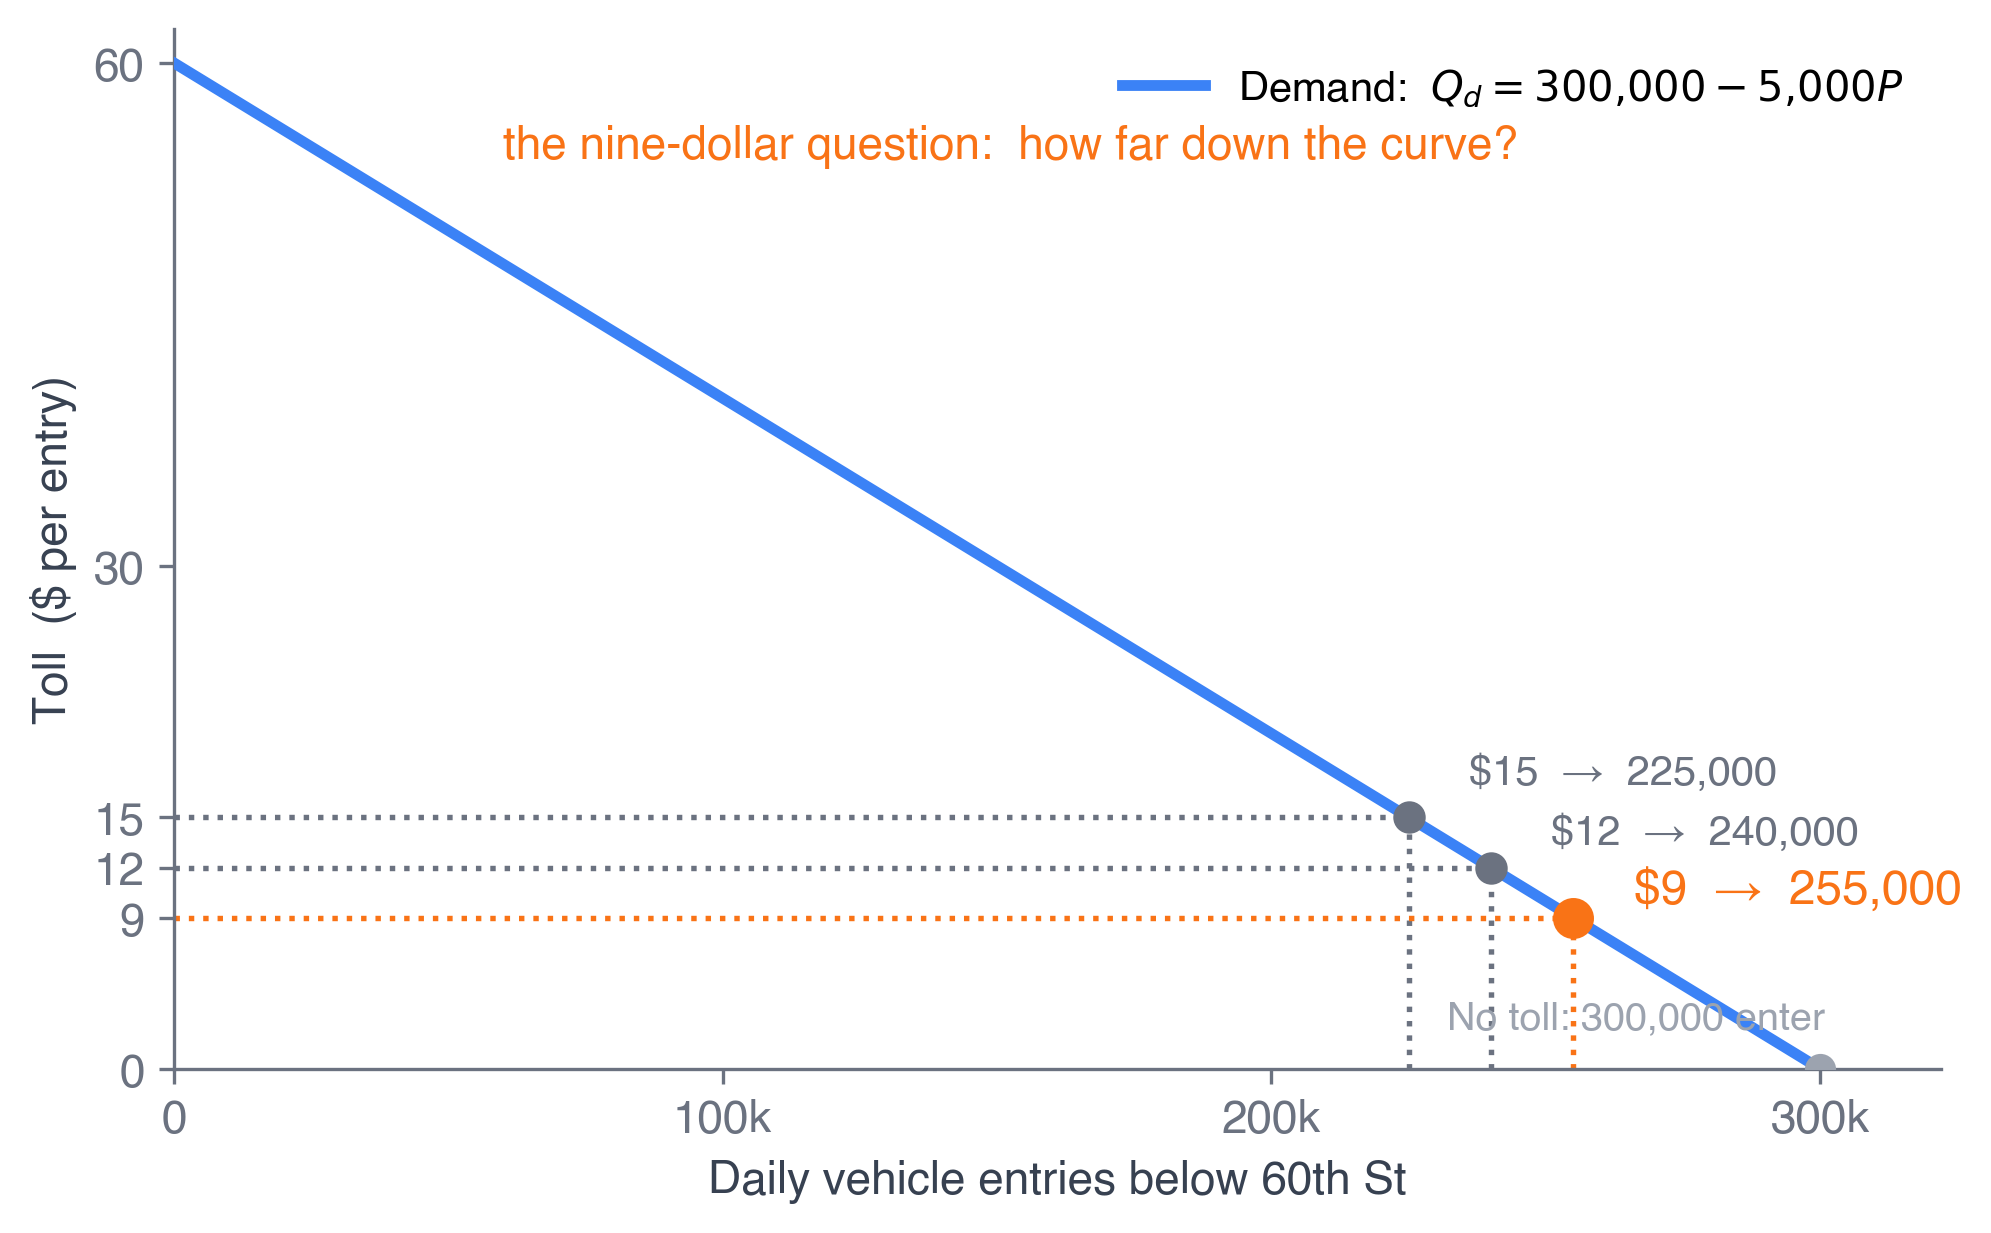
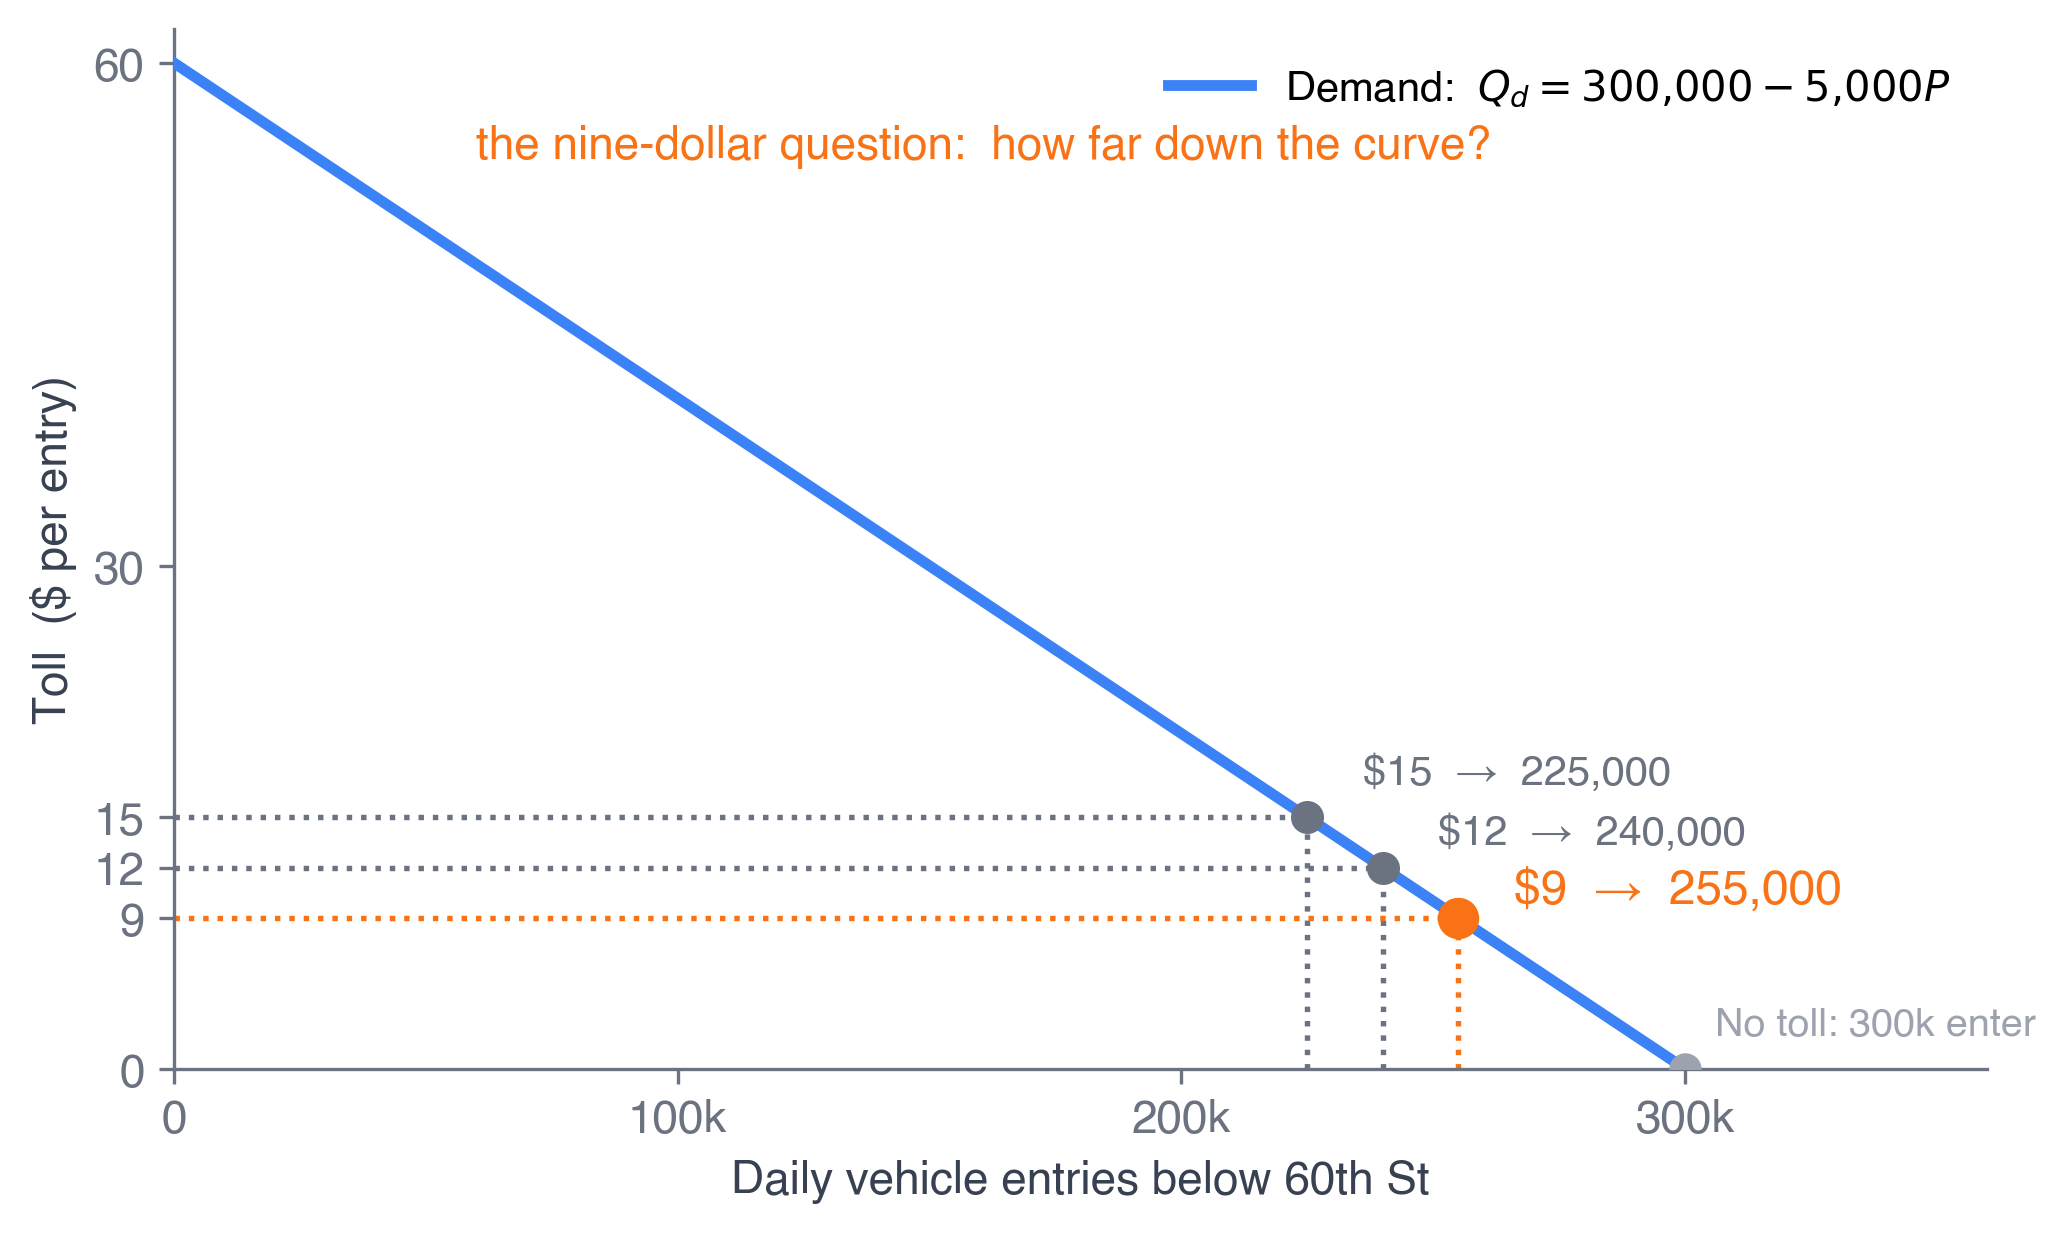
Ch 1 deck: fix toll figure (intercept marker on top, move No-toll label clear of cluster) + add circular-flow slide (invisible hand) before Three Working Assumptions

diff --git a/econ2316/ch01-adventures-in-microeconomics/index.html b/econ2316/ch01-adventures-in-microeconomics/index.html
@@ -277,6 +277,25 @@
   <aside class="notes">The single most important slide of the chapter. The constraint binds &mdash; that is what makes the problem interesting; if scarcity weren't tight, no theory would be needed. Read the table left to right: the math problem is identical across consumer, producer, and policymaker; only the labels change. That is why one toolkit serves the whole book. The time-budget figure makes it concrete: 97 free hours split between study and paid work, with the frontier \(S+W=97\). Walkthrough 1.1 solves exactly this in a moment.</aside>
 </section>
 
+      <section id="circular-flow">
+        <h2><i class="fa-solid fa-arrows-spin" style="color: var(--accent-color);"></i> The Simplified Economy: Circular-Flow Diagram</h2>
+        <div style="display: grid; grid-template-columns: 1.45fr 1fr; gap: 22px; align-items: center;">
+          <img alt="Circular-flow diagram: firms and households exchange goods and money in the product market on top, and inputs (labor, capital, land, entrepreneurship) and money in the factor market on the bottom" src="figures/fig-circular-flow.png" style="width: 100%; border-radius: 8px;">
+          <div>
+            <div style="background: #f8f6f3; border-radius: 10px; padding: 13px 18px; border-left: 4px solid var(--secondary-color); margin-bottom: 10px;">
+              <p style="font-size: 12.5pt; line-height: 1.5; margin: 0;">Think of something you bought <strong>today</strong> &mdash; a coffee, a bagel, a snack. You will never meet the farmer who grew the beans, the baker, or the barista. Yet it reached you.</p>
+            </div>
+            <div style="background: #fbf3ee; border-radius: 10px; padding: 13px 18px; border-left: 4px solid var(--accent-color); margin-bottom: 10px;">
+              <p style="font-size: 12.5pt; line-height: 1.5; margin: 0;">Millions of strangers, each pursuing their own ends, coordinated by <strong>prices</strong> &mdash; with no one in charge. Adam Smith called it the <strong>invisible hand</strong>.</p>
+            </div>
+            <div class="key-result" style="margin: 0;">
+              <p style="margin: 0; font-size: 12.5pt;">To make a system this big and decentralized <em>analyzable</em>, economists lean on a few assumptions about how agents behave. <i class="fa-solid fa-arrow-right" style="color: var(--secondary-color);"></i></p>
+            </div>
+          </div>
+        </div>
+        <aside class="notes">The zoom-out before the assumptions. Cold-call: what did you buy today? Coffee, bagel, snack. Who grew it, baked it, shipped it? You have no idea - and never will. The circular flow shows the structure: households and firms swap money for goods (product market, top) and money for inputs (factor market, bottom). Nobody coordinates it; prices do - Adam Smith's invisible hand (1776). The payoff line sets up the next slide: to model this giant decentralized system, we make simplifying behavioral assumptions - the Three Working Assumptions. Factor market (bottom loop) is where Ch 19 will live.</aside>
+      </section>
+
       <section id="working-assumptions">
         <h2><i class="fa-solid fa-list-check" style="color: var(--secondary-color);"></i> Three Working Assumptions</h2>
         <p style="font-size: 12.5pt; line-height: 1.45; margin: 0 0 10px;">Intermediate micro leans on these far harder than Principles did. Every model in the book rests on them.</p>

diff --git a/econ2316/ch01-adventures-in-microeconomics/presentation.html b/econ2316/ch01-adventures-in-microeconomics/presentation.html
@@ -277,6 +277,25 @@
   <aside class="notes">The single most important slide of the chapter. The constraint binds &mdash; that is what makes the problem interesting; if scarcity weren't tight, no theory would be needed. Read the table left to right: the math problem is identical across consumer, producer, and policymaker; only the labels change. That is why one toolkit serves the whole book. The time-budget figure makes it concrete: 97 free hours split between study and paid work, with the frontier \(S+W=97\). Walkthrough 1.1 solves exactly this in a moment.</aside>
 </section>
 
+      <section id="circular-flow">
+        <h2><i class="fa-solid fa-arrows-spin" style="color: var(--accent-color);"></i> The Simplified Economy: Circular-Flow Diagram</h2>
+        <div style="display: grid; grid-template-columns: 1.45fr 1fr; gap: 22px; align-items: center;">
+          <img alt="Circular-flow diagram: firms and households exchange goods and money in the product market on top, and inputs (labor, capital, land, entrepreneurship) and money in the factor market on the bottom" src="figures/fig-circular-flow.png" style="width: 100%; border-radius: 8px;">
+          <div>
+            <div style="background: #f8f6f3; border-radius: 10px; padding: 13px 18px; border-left: 4px solid var(--secondary-color); margin-bottom: 10px;">
+              <p style="font-size: 12.5pt; line-height: 1.5; margin: 0;">Think of something you bought <strong>today</strong> &mdash; a coffee, a bagel, a snack. You will never meet the farmer who grew the beans, the baker, or the barista. Yet it reached you.</p>
+            </div>
+            <div style="background: #fbf3ee; border-radius: 10px; padding: 13px 18px; border-left: 4px solid var(--accent-color); margin-bottom: 10px;">
+              <p style="font-size: 12.5pt; line-height: 1.5; margin: 0;">Millions of strangers, each pursuing their own ends, coordinated by <strong>prices</strong> &mdash; with no one in charge. Adam Smith called it the <strong>invisible hand</strong>.</p>
+            </div>
+            <div class="key-result" style="margin: 0;">
+              <p style="margin: 0; font-size: 12.5pt;">To make a system this big and decentralized <em>analyzable</em>, economists lean on a few assumptions about how agents behave. <i class="fa-solid fa-arrow-right" style="color: var(--secondary-color);"></i></p>
+            </div>
+          </div>
+        </div>
+        <aside class="notes">The zoom-out before the assumptions. Cold-call: what did you buy today? Coffee, bagel, snack. Who grew it, baked it, shipped it? You have no idea - and never will. The circular flow shows the structure: households and firms swap money for goods (product market, top) and money for inputs (factor market, bottom). Nobody coordinates it; prices do - Adam Smith's invisible hand (1776). The payoff line sets up the next slide: to model this giant decentralized system, we make simplifying behavioral assumptions - the Three Working Assumptions. Factor market (bottom loop) is where Ch 19 will live.</aside>
+      </section>
+
       <section id="working-assumptions">
         <h2><i class="fa-solid fa-list-check" style="color: var(--secondary-color);"></i> Three Working Assumptions</h2>
         <p style="font-size: 12.5pt; line-height: 1.45; margin: 0 0 10px;">Intermediate micro leans on these far harder than Principles did. Every model in the book rests on them.</p>
